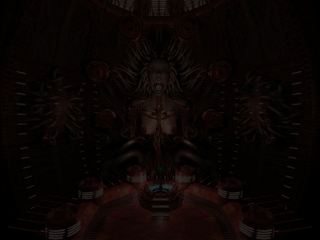
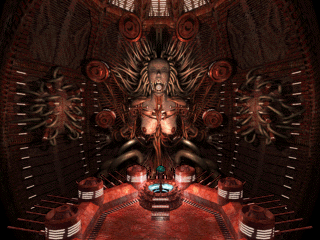
When detecting Dorothy room, brighten the capture instead of darkening the reference

diff --git a/src/game/console.rs b/src/game/console.rs
@@ -3,6 +3,7 @@ use std::fs::File;
 use std::path::{Path, PathBuf};
 
 use anyhow::{bail, Result};
+use opencv::core::min as cv_min;
 use opencv::prelude::*;
 use opencv::imgcodecs::{IMREAD_GRAYSCALE, imread};
 use opencv::videoio::VideoCapture;
@@ -195,7 +196,20 @@ impl ConsoleGame {
 
         let mut best_match = None;
         for (dest_map, dest_room, reference_image) in &self.current_links {
-            let score = reference_image.match_score(&capture)?;
+            let score = if *dest_map == Map::MushroomTower && *dest_room == 7 {
+                // the background displayed in this room is a darkened version of the actual
+                // background image, and our matching algorithm has trouble with very dark images
+                // anyway, so we need to brighten the capture image for comparison
+                let mut brightened = Mat::default();
+                trans_capture.convert_to(&mut brightened, -1, 5.0, 0.0)?;
+                let mut clipped = Mat::default();
+                cv_min(&brightened, &1.0, &mut clipped)?;
+                let masked = self.hud_mask.mask(&clipped)?;
+                reference_image.match_score(&masked)?
+            } else {
+                reference_image.match_score(&capture)?
+            };
+
             if score > MATCH_THRESHOLD {
                 // if one of the matches is the expected next room, always take that one
                 let route_match = match route_hint {
